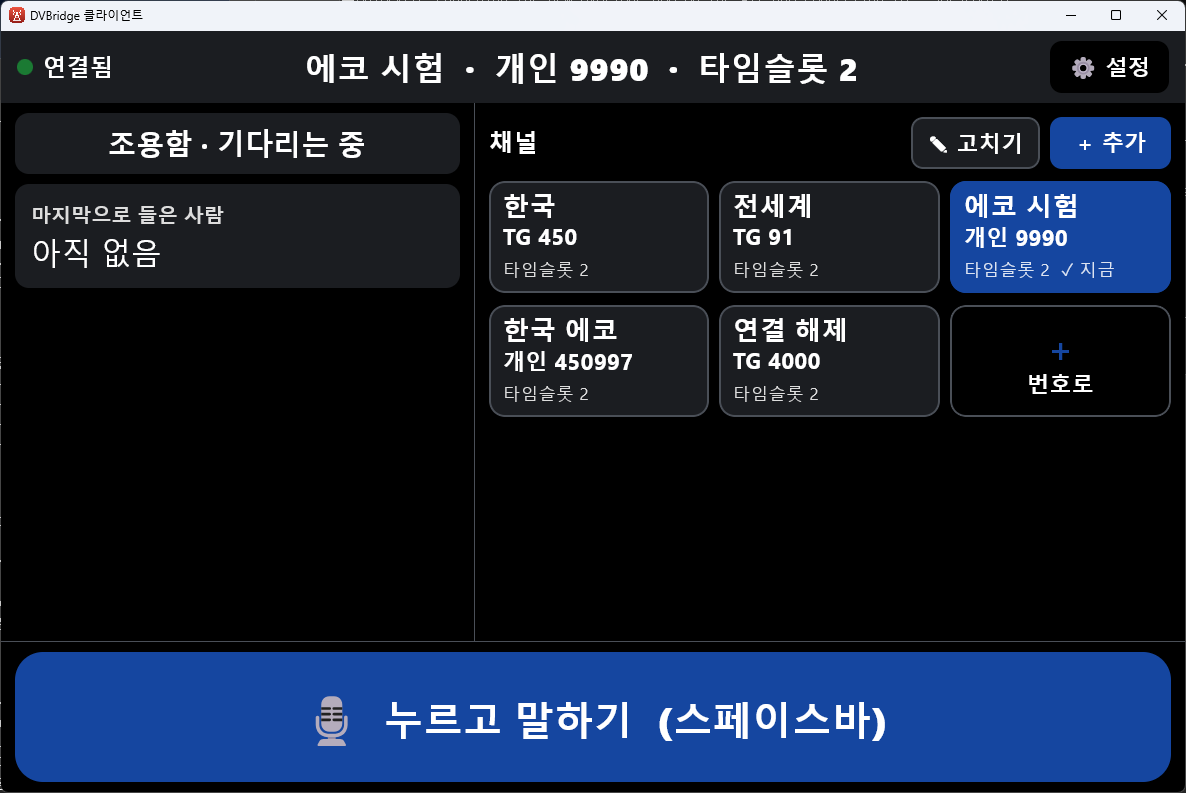
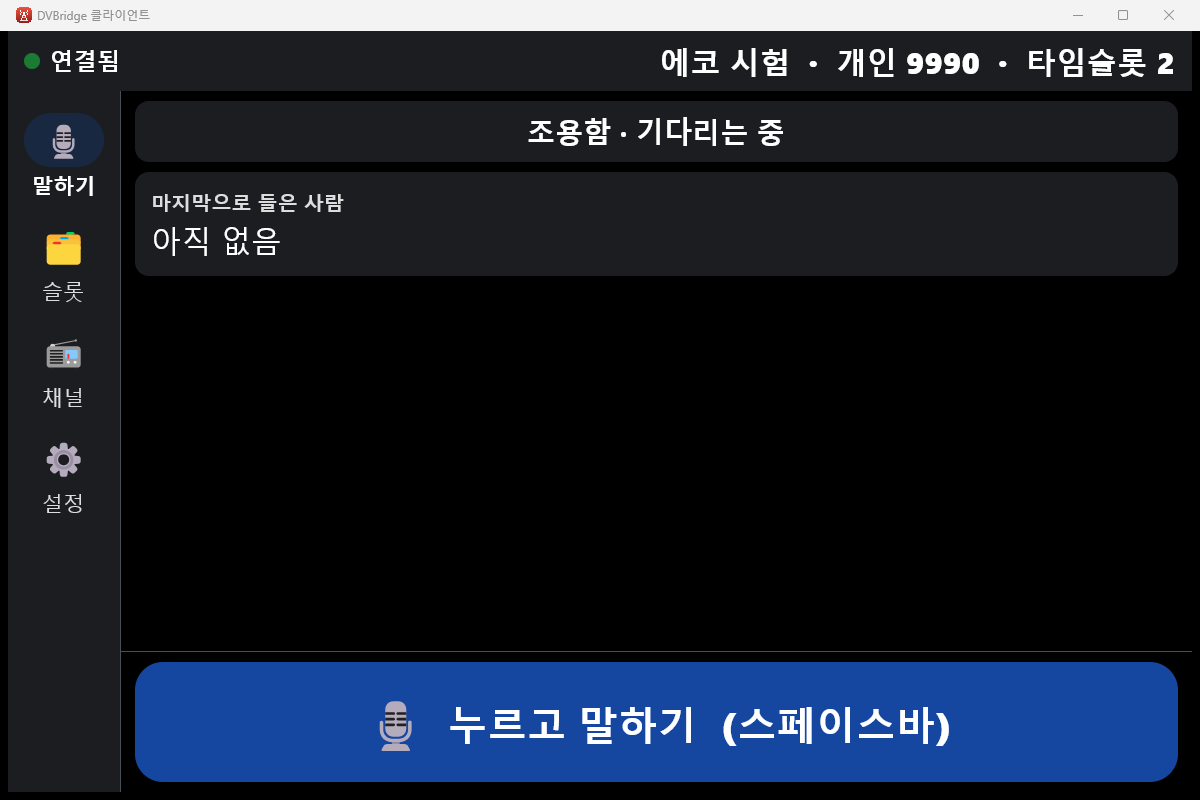
0.5.1: 넓은 화면도 휴대폰과 같은 메뉴 4개(왼쪽 세로 줄) + 가로로 긴 말하기 버튼
- 넓은 화면(PC·폴더블 펼침·태블릿): 말하기·슬롯·채널·설정 메뉴를 왼쪽 세로 줄로, 맨 아래 가로 말하기 버튼
- 슬롯 메뉴는 넓은 화면에서 채널 버튼 타일, '＋ 번호로'는 채널 메뉴로
- PC: 0.4 설정 폴더(DMRBridgeClient) 자동 이전 경로 바로잡음(공개 소스), 설치 파일 버전 정보 형식 수정
- README·설명서 그림 새 배치로

diff --git a/composeApp/src/jvmShared/kotlin/io/github/seunghunchoidev/dvbridgeclient/App.kt b/composeApp/src/jvmShared/kotlin/io/github/seunghunchoidev/dvbridgeclient/App.kt
@@ -78,8 +78,7 @@ fun Modifier.typing(m: UiModel) = onFocusChanged { m.typing = it.isFocused }
 class UiModel(private val store: KeyValueStore, val radio: Radio, val hooks: UiHooks) {
     var tab by mutableIntStateOf(if (store.getString("host", "").isBlank()) 3 else 0)   // 0 말하기 1 슬롯 2 채널 3 설정
     var typing by mutableStateOf(false)      // 글자 입력 칸에 커서가 있음 → 스페이스바를 말하기로 쓰지 않음
-    var wide by mutableStateOf(false)        // 넓은 화면 배치 (PC·태블릿·폴더블): 무전기형
-    var panel by mutableIntStateOf(if (store.getString("host", "").isBlank()) 2 else 0)   // 넓은 화면 오른쪽: 0 채널 버튼 1 번호로 2 설정
+    var wide by mutableStateOf(false)        // 넓은 화면 배치 (PC·태블릿·폴더블): 같은 메뉴를 왼쪽 세로 줄로
     val slots = mutableStateListOf<ChannelSlot>().apply { addAll(loadSlots()) }
     var slotFilter by mutableStateOf("")     // 슬롯 걸러 보기: "" 전체, "★" 즐겨찾기, 그룹 이름
     var slotCompact by mutableStateOf(store.getBoolean("slot_compact", false))   // 간단히 보기 (한 줄)
@@ -177,34 +176,36 @@ private fun Screen(m: UiModel, p: Palette, platform: PlatformInfo) {
             },
         ) { pad ->
             if (wide) {
-                // 넓은 화면 = 무전기형: 위(상태 줄) 지금 채널 크게 + ⚙ / 왼쪽 상대방·최근 수신 / 오른쪽 채널 버튼 / 아래 가로로 긴 말하기
-                Column(Modifier.padding(pad).fillMaxSize()) {
-                Row(Modifier.weight(1f).fillMaxWidth()) {
-                    Box(Modifier.weight(0.40f).fillMaxHeight()) { TalkTab(m, s, now, p, withPtt = false) }
-                    Box(Modifier.width(1.dp).fillMaxHeight().background(p.line))
-                    Column(Modifier.weight(0.60f).fillMaxHeight()) {
-                        if (m.panel != 0) {
-                            // 번호로 / 설정: 위에 '돌아가기'
-                            Row(Modifier.fillMaxWidth().background(p.card).clickable { m.panel = 0 }.padding(horizontal = 16.dp, vertical = 12.dp),
-                                verticalAlignment = Alignment.CenterVertically) {
-                                Text("←  채널 버튼으로", fontSize = 20.sp, fontWeight = FontWeight.Bold, color = Blue)
-                                Spacer(Modifier.weight(1f))
-                                Text(if (m.panel == 1) "📻 번호로 바꾸기" else "⚙ 설정", fontSize = 20.sp, fontWeight = FontWeight.ExtraBold, color = p.text)
-                            }
-                        }
-                        Box(Modifier.fillMaxSize()) {
-                            when (m.panel) {
-                                1 -> ChannelTab(m, s, p)
-                                2 -> SettingsTab(m, s, p, platform)
-                                else -> SlotTab(m, s, p, tiles = true)
-                            }
+                // 넓은 화면: 일반 화면과 같은 메뉴 4개(말하기·슬롯·채널·설정)를 왼쪽 세로 줄로, 고른 화면은 오른쪽에 넓게,
+                // 맨 아래는 어느 메뉴에서나 누를 수 있는 가로로 긴 말하기 버튼
+                Row(Modifier.padding(pad).fillMaxSize()) {
+                    NavigationRail(containerColor = p.card, modifier = Modifier.fillMaxHeight().width(112.dp)) {
+                        Spacer(Modifier.height(8.dp))
+                        TABS.forEachIndexed { i, (ic, label) ->
+                            NavigationRailItem(
+                                selected = m.tab == i, onClick = { m.tab = i },
+                                icon = { Text(ic, fontSize = 30.sp) },
+                                label = { Text(label, fontSize = 18.sp, fontWeight = if (m.tab == i) FontWeight.Bold else FontWeight.Normal) },
+                                colors = NavigationRailItemDefaults.colors(
+                                    selectedTextColor = p.text, unselectedTextColor = p.sub, indicatorColor = Blue.copy(alpha = 0.25f)),
+                                modifier = Modifier.padding(vertical = 6.dp))
                         }
                     }
-                }
-                Box(Modifier.fillMaxWidth().background(p.line).height(1.dp))
-                Box(Modifier.fillMaxWidth().padding(horizontal = 14.dp, vertical = 10.dp)) {
-                    PttButton(m, s, p, Modifier.fillMaxWidth().height(130.dp), inline = true)
-                }
+                    Box(Modifier.width(1.dp).fillMaxHeight().background(p.line))
+                    Column(Modifier.weight(1f).fillMaxHeight()) {
+                        Box(Modifier.weight(1f).fillMaxWidth()) {
+                            when (m.tab) {
+                                0 -> TalkTab(m, s, now, p, withPtt = false)
+                                1 -> SlotTab(m, s, p, tiles = true)
+                                2 -> ChannelTab(m, s, p)
+                                else -> SettingsTab(m, s, p, platform)
+                            }
+                        }
+                        Box(Modifier.fillMaxWidth().background(p.line).height(1.dp))
+                        Box(Modifier.fillMaxWidth().padding(horizontal = 14.dp, vertical = 10.dp)) {
+                            PttButton(m, s, p, Modifier.fillMaxWidth().height(120.dp), inline = true)
+                        }
+                    }
                 }
             } else {
                 Box(Modifier.padding(pad).fillMaxSize()) { TabContent(m, s, now, p, platform, m.tab) }
@@ -261,15 +262,9 @@ private fun StatusBar(m: UiModel, s: RadioState, p: Palette) {
             Text(ct, color = p.text, fontWeight = FontWeight.Bold, fontSize = 20.sp)
             Spacer(Modifier.weight(1f))
             if (m.wide) {
-                // 무전기형: 지금 채널을 가운데 크게 (이름 · 번호 · 타임슬롯)
+                // 넓은 화면: 지금 채널을 오른쪽에 크게 (이름 · 번호 · 타임슬롯)
                 if (s.tg > 0) Text(listOf(name, targetText(s), if (s.ts > 0) "타임슬롯 ${s.ts}" else "").filter { it.isNotEmpty() }.joinToString("  ·  "),
-                    color = p.text, fontSize = 28.sp, fontWeight = FontWeight.ExtraBold, maxLines = 1, overflow = TextOverflow.Ellipsis)
-                Spacer(Modifier.weight(1f))
-                val on = m.panel == 2
-                Box(Modifier.heightIn(min = 52.dp).clip(RoundedCornerShape(12.dp)).background(if (on) Blue else p.bg)
-                    .clickable { m.panel = if (on) 0 else 2 }.padding(horizontal = 18.dp), contentAlignment = Alignment.Center) {
-                    Text("⚙ 설정", fontSize = 19.sp, fontWeight = FontWeight.Bold, color = if (on) Color.White else p.text)
-                }
+                    color = p.text, fontSize = 26.sp, fontWeight = FontWeight.ExtraBold, maxLines = 1, overflow = TextOverflow.Ellipsis)
             } else if (s.tg > 0) {
                 Column(horizontalAlignment = Alignment.End) {
                     Text(targetText(s), color = p.text, fontSize = 22.sp, fontWeight = FontWeight.ExtraBold)
@@ -290,7 +285,7 @@ private fun TalkTab(m: UiModel, s: RadioState, now: Long, p: Palette, withPtt: B
             s.tx -> Triple("🔴 말하는 중  ${(now - s.txSince) / 1000}초", Red, Color.White)
             s.rx -> Triple("🔊 듣는 중  ${(now - s.rxSince) / 1000}초", Green, Color.White)
             online -> Triple("조용함 · 기다리는 중", p.card, p.text)
-            else -> Triple(if (m.wide) "연결 안 됨 → ⚙ 설정에서 연결" else "연결 안 됨 → 설정 탭에서 연결", p.card, p.text)
+            else -> Triple("연결 안 됨 → 설정 메뉴에서 연결", p.card, p.text)
         }
         Box(Modifier.fillMaxWidth().clip(RoundedCornerShape(14.dp)).background(bg).padding(vertical = 12.dp), contentAlignment = Alignment.Center) {
             Text(bt, fontSize = 24.sp, fontWeight = FontWeight.Bold, color = fg)
@@ -512,7 +507,7 @@ private fun SlotTab(m: UiModel, s: RadioState, p: Palette, tiles: Boolean = fals
                 Row(horizontalArrangement = Arrangement.spacedBy(10.dp)) {
                     row.forEach { cell ->
                         Box(Modifier.weight(1f)) {
-                            if (cell == null) NumberTile(p) { m.panel = 1 }
+                            if (cell == null) NumberTile(p) { m.tab = 2 }   // 채널 메뉴(번호로 바꾸기)
                             else SlotTile(m, s, cell.value, p, editMode) {
                                 if (editMode) editing = cell.index else m.applySlot(cell.value)
                             }

diff --git a/composeApp/src/desktopMain/kotlin/io/github/seunghunchoidev/dvbridgeclient/DesktopPlatform.kt b/composeApp/src/desktopMain/kotlin/io/github/seunghunchoidev/dvbridgeclient/DesktopPlatform.kt
@@ -22,12 +22,12 @@ object DesktopPlatform : PlatformInfo {
 
 /**
  * 설정 파일: %APPDATA%\DVBridgeClient\universal.properties
- * 처음이면 옛 이름(DVBridge 클라이언트, %APPDATA%\DVBridgeClient)의 설정을 옮겨 오고, 그것도 없으면 Qt판 client.ini에서 가져옴
+ * 처음이면 옛 이름(DMRBridge 클라이언트, %APPDATA%\DMRBridgeClient)의 설정을 옮겨 오고, 그것도 없으면 Qt판 client.ini에서 가져옴
  */
 class DesktopStore : KeyValueStore {
     private val base = File(System.getenv("APPDATA") ?: System.getProperty("user.home"))
     private val dir = File(base, "DVBridgeClient")
-    private val oldDir = File(base, "DVBridgeClient")      // 0.4까지의 이름
+    private val oldDir = File(base, "DMRBridgeClient")      // 0.4까지의 이름
     private val file = File(dir, "universal.properties")
     private val p = Properties()
 

diff --git a/composeApp/src/jvmShared/kotlin/io/github/seunghunchoidev/dvbridgeclient/Platform.kt b/composeApp/src/jvmShared/kotlin/io/github/seunghunchoidev/dvbridgeclient/Platform.kt
@@ -31,4 +31,4 @@ interface PlatformInfo {
     val isDesktop: Boolean
 }
 
-const val APP_VERSION = "0.5"
+const val APP_VERSION = "0.5.1"
